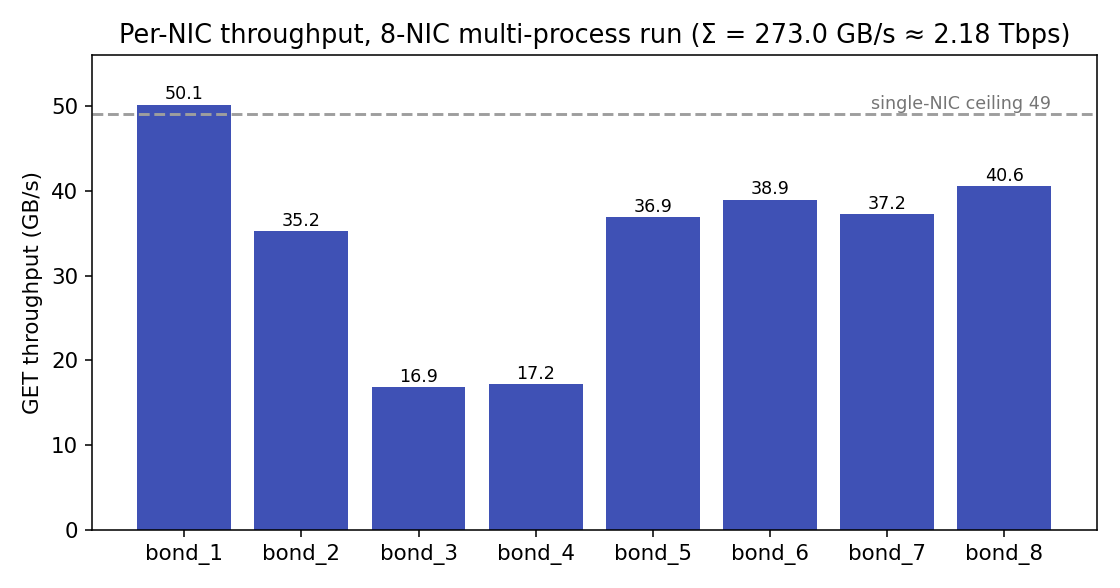
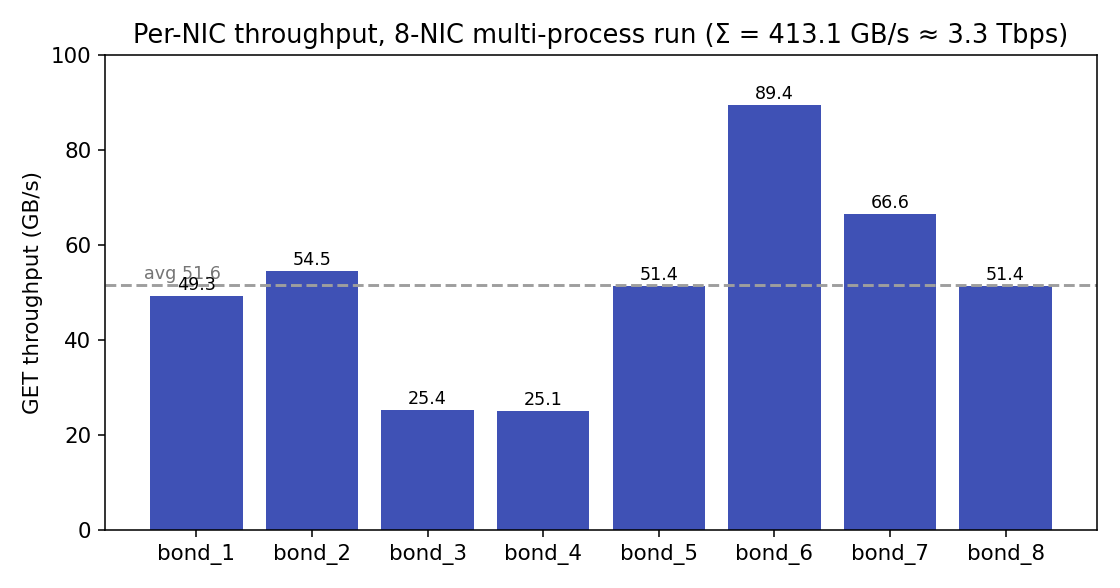
docs: refresh full-machine baseline to 413 GB/s (charts + all references)
Updated the 8-NIC multi-process aggregate from 273 -> 413.1 GB/s (~3.3 Tbps,
8 reader processes/NIC at 128 KiB pages) everywhere it is cited: performance
page (EN/中文) headline + section 3 + per-NIC table, docs overview (EN/中文),
README (EN/中文). Regenerated the scaling-ladder and per-NIC charts (new values,
removed the now-exceeded single-NIC ceiling line; per-NIC 25-89 GB/s, avg 51.6).
Added the measured GPUDirect result (49.5 GB/s, single-GPU PCIe-bound; scales
per-GPU in a TP deployment) to the GPUDirect section.

diff --git a/docs/assets/perf/make_charts.py b/docs/assets/perf/make_charts.py
@@ -21,27 +21,23 @@ plt.rcParams.update({"font.size": 11, "figure.autolayout": True})
 
 def scaling_ladder():
     labels = [
-        "Bare ib_read_bw\n1 NIC",
         "PeerCache GET\n1 NIC (8 proc)",
         "PeerCache GET\n1 process, 8 rails\n(1 MiB pages)",
-        "PeerCache GET\n8 NICs, multi-process\n(1 MiB pages)",
+        "PeerCache GET\n8 NICs, multi-process\n(128 KiB pages, 8 proc/NIC)",
     ]
-    vals = [49.0, 46.0, 147.6, 273.0]
-    colors = [GREY, PRIMARY, PRIMARY, ACCENT]
-    fig, ax = plt.subplots(figsize=(8, 4.2))
+    vals = [46.0, 147.6, 413.1]
+    colors = [PRIMARY, PRIMARY, ACCENT]
+    fig, ax = plt.subplots(figsize=(8, 4.0))
     bars = ax.barh(range(len(labels)), vals, color=colors)
     ax.set_yticks(range(len(labels)))
     ax.set_yticklabels(labels)
     ax.invert_yaxis()
     ax.set_xlabel("GET throughput (GB/s, 10⁹ bytes/s)")
-    ax.set_title("Throughput scaling ladder (cross-host RDMA, MLA)", pad=14)
-    ax.axvline(392.0, ls="--", color="#bdbdbd")
-    ax.text(388.0, len(labels) - 0.5, "8-NIC bare ceiling ≈ 392 GB/s",
-            color="#757575", ha="right", va="bottom", fontsize=9, rotation=90)
+    ax.set_title("Throughput scaling ladder (cross-host RDMA, MLA)", pad=12)
     for b, v in zip(bars, vals):
-        ax.text(b.get_width() + 4, b.get_y() + b.get_height() / 2,
+        ax.text(b.get_width() + 5, b.get_y() + b.get_height() / 2,
                 f"{v:.1f}", va="center", fontsize=10)
-    ax.set_xlim(0, 410)
+    ax.set_xlim(0, 460)
     fig.savefig(os.path.join(OUT, "scaling_ladder.png"), dpi=140)
     plt.close(fig)
 
@@ -69,16 +65,17 @@ def single_process_scaling():
 
 def per_card():
     cards = [f"bond_{i}" for i in range(1, 9)]
-    vals = [50.139, 35.187, 16.862, 17.202, 36.914, 38.946, 37.227, 40.561]
+    vals = [49.294, 54.537, 25.365, 25.145, 51.369, 89.426, 66.599, 51.398]
+    avg = sum(vals) / len(vals)
     fig, ax = plt.subplots(figsize=(8, 4.2))
     bars = ax.bar(cards, vals, color=PRIMARY)
-    ax.axhline(49.0, ls="--", color=GREY)
-    ax.text(7.4, 49.0 + 0.6, "single-NIC ceiling 49", color="#757575", ha="right", fontsize=9)
+    ax.axhline(avg, ls="--", color=GREY)
+    ax.text(-0.45, avg + 1.2, f"avg {avg:.1f}", color="#757575", ha="left", fontsize=9)
     for b, v in zip(bars, vals):
-        ax.text(b.get_x() + b.get_width() / 2, v + 0.6, f"{v:.1f}", ha="center", fontsize=9)
+        ax.text(b.get_x() + b.get_width() / 2, v + 1.2, f"{v:.1f}", ha="center", fontsize=9)
     ax.set_ylabel("GET throughput (GB/s)")
-    ax.set_title("Per-NIC throughput, 8-NIC multi-process run (Σ = 273.0 GB/s ≈ 2.18 Tbps)")
-    ax.set_ylim(0, 56)
+    ax.set_title("Per-NIC throughput, 8-NIC multi-process run (Σ = 413.1 GB/s ≈ 3.3 Tbps)")
+    ax.set_ylim(0, 100)
     fig.savefig(os.path.join(OUT, "per_card.png"), dpi=140)
     plt.close(fig)
 

diff --git a/docs/performance.md b/docs/performance.md
@@ -27,10 +27,12 @@ regimes and what bounds each:
 | Bare `ib_read_bw`, 1 NIC, 16 QP | **49.0 GB/s** (392 Gbps) | 100% | hardware ceiling of one NIC |
 | PeerCache, 1 NIC, 8 processes | **46.0 GB/s** (368 Gbps) | 94% | storage-layer overhead ≈ 6% |
 | PeerCache, **1 process**, 8 rails, 1 MiB pages | **147.6 GB/s** (1.18 Tbps) | — | GIL-bounded; ≈ 3 NICs' worth |
-| PeerCache, **8 NICs**, multi-process, 1 MiB pages | **273.0 GB/s** (2.18 Tbps) | — | ≈ 70% of the 8-NIC bare ceiling |
+| PeerCache, **8 NICs**, multi-process, 128 KiB pages | **413.1 GB/s** (3.3 Tbps) | — | per-NIC 25–89 GB/s; mem/PCIe/NUMA-bound |
 
 The takeaway: PeerCache reaches **~94% of bare `ib_read_bw` on a single NIC**,
-and a single box scales to **0.27 TB/s** aggregate across 8 NICs.
+and a single box scales to **0.41 TB/s** aggregate across 8 NICs. (Under full
+multi-process load a single NIC reached **89 GB/s** — the 16-QP `ib_read_bw`
+figure above is a conservative single-NIC reference, not a hard cap.)
 
 ## Test environment
 
@@ -112,23 +114,24 @@ saturate all 8** — for that, use multiple processes.
 
 The production shape (and the way to fill every NIC) is **one process group per
 NIC** — exactly how an SGLang TP=8 deployment runs (8 ranks, each pinned to its
-local NIC). Here: 8 NICs × 4 reader processes each, 1 MiB pages.
+local NIC). Here: 8 NICs × 8 reader processes each, 128 KiB pages.
 
 <figure markdown>
   ![Per-NIC throughput](assets/perf/per_card.png)
-  <figcaption>Per-NIC GET throughput; the 8 sum to 273.0 GB/s (≈ 2.18 Tbps).</figcaption>
+  <figcaption>Per-NIC GET throughput; the 8 sum to 413.1 GB/s (≈ 3.3 Tbps).</figcaption>
 </figure>
 
 | metric | value |
 |---|---|
-| **Aggregate GET** | **273.0 GB/s (2.18 Tbps)** |
-| Per-NIC range | 16.9 – 50.1 GB/s |
-| Fraction of 8-NIC bare ceiling (≈ 392 GB/s) | ≈ 70% |
+| **Aggregate GET** | **413.1 GB/s (3.3 Tbps)** |
+| Per-NIC range | 25.1 – 89.4 GB/s (avg ≈ 51.6) |
+| Config | 8 NICs × 8 reader processes, 128 KiB pages |
 
-The aggregate scales far past a single process (147 → 273 GB/s) but is **no
-longer NIC-bound** — it is limited by host memory bandwidth / PCIe and by an
-**imbalance** (two NICs at ~17 GB/s while others reach 35–50). On this box NICs
-1–4 sit on NUMA node 0 and 5–8 on node 1 (remote-node distance 32 vs 10 local),
+The aggregate scales far past a single process (147 → 413 GB/s) and a single NIC
+reached **89 GB/s** here, so it is **not NIC-bound** — the limit is host memory
+bandwidth / PCIe and an **imbalance** (two NICs at ~25 GB/s while others reach
+49–89). On this box NICs 1–4 sit on NUMA node 0 and 5–8 on node 1 (remote-node
+distance 32 vs 10 local),
 so a reader that isn't pinned can land on the wrong node and pay the cross-NUMA
 penalty. Bind each process group to its NIC's NUMA node with
 `numactl --cpunodebind=<n> --membind=<n>` (the reproduce scripts do this when
@@ -198,6 +201,13 @@ peercache-bench drive --discovery-addr PRODUCER_IP:31998 --device-name mlx5_bond
 
 `--gpu` allocates the read destination in GPU memory; a registration failure
 raises an error naming the missing prerequisite.
+
+Measured (1 process, 8 rails, 1 MiB pages, recv in VRAM): **49.5 GB/s at 100%
+hit** vs. 140 GB/s with a host recv buffer. This is **single-GPU PCIe-bound** —
+all 8 rails write into one GPU, so they share that GPU's PCIe link (≈ 50 GB/s on
+Gen5 x16). In a real SGLang TP=N deployment each rank reads into **its own** GPU,
+so GPUDirect scales with the number of GPUs (≈ N × per-GPU PCIe bandwidth)
+instead of being capped by a single link.
 
 ## Caveats
 

diff --git a/CHANGELOG.md b/CHANGELOG.md
@@ -6,6 +6,12 @@ All notable changes to PeerCache are documented here. The format is based on
 
 ## [Unreleased]
 
+### Changed
+- Refreshed the **full-machine performance baseline** (docs + README + overview
+  + charts): 8-NIC multi-process aggregate **273 → 413 GB/s (≈ 3.3 Tbps)** with
+  8 reader processes/NIC at 128 KiB pages; added the measured GPUDirect result
+  (49.5 GB/s, single-GPU PCIe-bound) and noted the per-NIC range (25–89 GB/s).
+
 ## [0.6.0] - 2026-06-01
 
 ### Added

diff --git a/README.md b/README.md
@@ -169,7 +169,7 @@ On 2× AMD EPYC 9K84 + 8× ConnectX-7 (RoCEv2, MTU 4096, MLNX_OFED 5.8):
 |---|---|
 | single NIC, PeerCache | **46.0 GB/s** (368 Gbps) — **~94%** of bare `ib_read_bw` (49.0 GB/s) |
 | single process, 8 rails (1 MiB pages) | **147.6 GB/s** (1.18 Tbps) |
-| full machine, 8 NICs, multi-process | **273.0 GB/s** (≈ 2.18 Tbps) |
+| full machine, 8 NICs, multi-process | **413.1 GB/s** (≈ 3.3 Tbps) |
 
 ![PeerCache GET throughput: single NIC → whole machine](docs/assets/perf/scaling_ladder.png)
 

diff --git a/docs/index.md b/docs/index.md
@@ -57,7 +57,7 @@ MTU 4096):
 |---|---|
 | single NIC, PeerCache | **46.0 GB/s** — **~94%** of bare `ib_read_bw` (49.0 GB/s) |
 | single process, 8 rails (1 MiB pages) | **147.6 GB/s** (1.18 Tbps) |
-| full machine, 8 NICs, multi-process | **273.0 GB/s** (≈ 2.18 Tbps) |
+| full machine, 8 NICs, multi-process | **413.1 GB/s** (≈ 3.3 Tbps) |
 
 ![PeerCache GET throughput: single NIC → whole machine](assets/perf/scaling_ladder.png)
 

diff --git a/docs/index.zh.md b/docs/index.zh.md
@@ -55,7 +55,7 @@ flowchart LR
 |---|---|
 | 单卡，PeerCache | **46.0 GB/s** —— 裸 `ib_read_bw`（49.0 GB/s）的 **~94%** |
 | 单进程，8 rail（1 MiB 页） | **147.6 GB/s**（1.18 Tbps） |
-| 整机，8 卡，多进程 | **273.0 GB/s**（≈ 2.18 Tbps） |
+| 整机，8 卡，多进程 | **413.1 GB/s**（≈ 3.3 Tbps） |
 
 ![PeerCache GET 吞吐：单卡 → 整机](assets/perf/scaling_ladder.png)
 